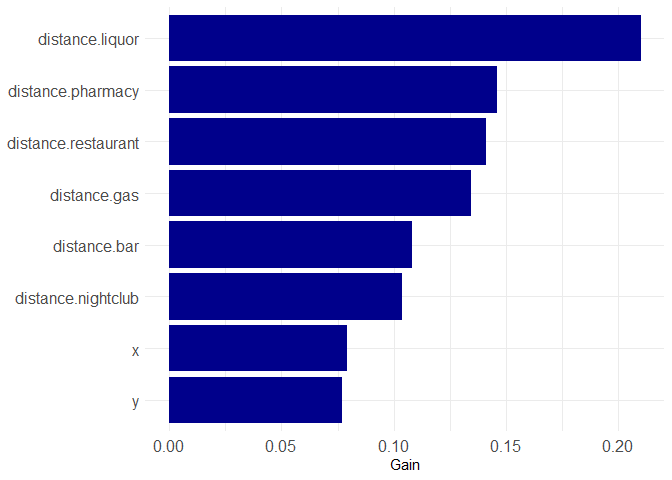
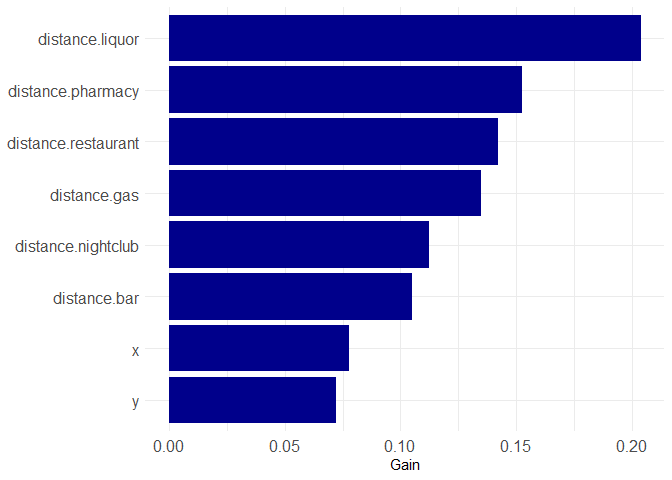
Updates to plot_ale, new vignette

diff --git a/README.md b/README.md
@@ -21,7 +21,7 @@ and Steenbeck
 This package is still in its infancy (as of 2021-06-14). A number of
 features are planned for the future, including:
 
--   Predictive Accuracy Index (PAI) calculation
+-   ~~Predictive Accuracy Index (PAI) calculation~~
 -   GoogleMaps & OpenStreet Maps integration
 -   Grid count and polygon-level predictors
 -   Shapely value decomposition
@@ -70,12 +70,18 @@ models using the parameters listed
 This is a minimum working example using the data provided in the
 `quickGrid` package. `quickGrid` is packaged with an example dataset
 containing robberies in Hartford CT for 2017 though 2019. A number of
-spatial predictors are packed in as well, including the locations of
+spatial predictors are included as well, including the locations of
 bars, night clubs, liquor stores, gas stations, pharmacies, and
-restaurants. For simplicity, these are packaged as a list of `sf`
+restaurants. For simplicity, these are packaged as a list of named `sf`
 objects that can be easily plugged into our model prep function.
 
 ### Setting up your data
+
+Because we are interested in *future* predictions, we should first split
+our data into a [test and train
+dataset](https://developers.google.com/machine-learning/crash-course/training-and-test-sets/splitting-data).
+Here, we will use 2017 - 2018 data for training, and 2019 for evaluating
+our predictions.
 
 ``` r
 library(quickGrid)
@@ -87,16 +93,25 @@ data("hartford_data")
 names(hartford_data)
 #> [1] "hartford"   "robbery"    "bar"        "nightclub"  "liquor"    
 #> [6] "gas"        "pharmacy"   "restaurant"
- 
+
+# Split data into test-train
+robbery_train <- dplyr::filter(hartford_data[[2]], substr(date,1,4) %in% 2017:2018)
+robbery_test <- dplyr::filter(hartford_data[[2]], substr(date,1,4) == 2019)
+```
+
+Now we can train our model on the 2017 and 2018 robberies, using the
+predictor variables and measuring by nearest distance.
+
+``` r
 # Create an object to hold model data
 # using 'prep_data' function
 
-model_data <- prep_data(outcome = hartford_data$robbery,
+model_data <- prep_data(outcome = robbery_train,
                        pred_var = hartford_data[c('bar','nightclub','liquor','gas','pharmacy','restaurant')],
                        region = hartford_data$hartford,
                        gridsize = 200,
                        measure = 'distance')
-#> [1] "Calculating distances..."
+#> Calculating distances...
 ```
 
 This will give us a list of two objects: a model dataframe with the
@@ -159,11 +174,11 @@ gbm_fit <- gbm_fit(
   nrounds = 1000,
   plot_importance = TRUE
 )
-#> [1] "Model type: Poisson"
-#> [1] "Fitting gbm model..."
+#> Model type: Poisson
+#> Fitting gbm model...
 ```
 
-<img src="man/figures/README-unnamed-chunk-3-1.png" width="500px" />
+<img src="man/figures/README-unnamed-chunk-4-1.png" width="500px" />
 
 We can directly access the model predictions as well, by examining the
 model dataframe in the `gbm_fit` output file. In this case `gbm.pred` is
@@ -193,12 +208,12 @@ head(gbm_fit$model_dataframe)
 #> 22        1986.044     2339.894          3511.932            1802.244
 #> 23        1796.853     2174.627          3418.562            1612.213
 #>       gbm.pred                       geometry
-#> 18 0.001900735 POLYGON ((1012120 854990.8,...
-#> 19 0.003929342 POLYGON ((1012320 854990.8,...
-#> 20 0.001821776 POLYGON ((1012520 854990.8,...
-#> 21 0.003597398 POLYGON ((1012720 854990.8,...
-#> 22 0.012617457 POLYGON ((1012920 854990.8,...
-#> 23 0.007686861 POLYGON ((1013120 854990.8,...
+#> 18 0.009015617 POLYGON ((1012120 854990.8,...
+#> 19 0.003779165 POLYGON ((1012320 854990.8,...
+#> 20 0.021006990 POLYGON ((1012520 854990.8,...
+#> 21 0.009862104 POLYGON ((1012720 854990.8,...
+#> 22 0.007123667 POLYGON ((1012920 854990.8,...
+#> 23 0.002528116 POLYGON ((1013120 854990.8,...
 ```
 
 ## Plotting Functions
@@ -223,7 +238,7 @@ function.
 plot_gbm(gbm_fit)
 ```
 
-<img src="man/figures/README-unnamed-chunk-5-1.png" width="500px" />
+<img src="man/figures/README-unnamed-chunk-6-1.png" width="500px" />
 
 In addition, you can also examine the value of one or more of your model
 predictors. If you want to see the grid values for your ‘distance’
@@ -236,7 +251,7 @@ or density values by simply added `feature = 'distance'`.
 plot_gbm(gbm_fit, feature = 'distance')
 ```
 
-<img src="man/figures/README-unnamed-chunk-6-1.png" width="500px" />
+<img src="man/figures/README-unnamed-chunk-7-1.png" width="500px" />
 
 ### plot\_ale
 
@@ -252,7 +267,7 @@ increases.
 plot_ale(gbm_fit, 'distance.liquor')
 ```
 
-<img src="man/figures/README-unnamed-chunk-7-1.png" width="500px" />
+<img src="man/figures/README-unnamed-chunk-8-1.png" width="500px" />
 
 ### Fitting your model with cross-validation
 
@@ -283,3 +298,51 @@ gbm_fit_cv <- gbm_fit(prep_data = model_data,
                      cv.subsample = c(.75,.5),
                      cv.nrounds = c(500,1000))
 ```
+
+## Evaluating Model Performace
+
+There are three possible options for evaluating the [accuracy of
+predictions](https://link.springer.com/article/10.1007/s10940-020-09457-7#Sec14)
+from your model:
+
+1.  The *predictive accuracy index* (PAI), which is the simply the
+    proportion of crimes predicted divided by the number of hotspots
+2.  The *predictive efficiency index* (PEI), which is the ratio of the
+    observed PAI to the (hypothetical) best possible PAI. Values closer
+    to one imply more accurate models.
+3.  The *recapture rate index* (RRI), which measures the relative
+    accuracy of hot spots. This is the ratio of the number of crimes
+    predicted by the model to the number of observed crimes. Values
+    above one imply more crimes are predicted than observed, while
+    values below one imply fewer crimes are predicted than observed.
+
+### `outcome_eval`
+
+The `outcome_eval` function allows the calculation of one or more of the
+above metrics. You can specify one or a list of two or more. The default
+cutoff for a hotspot is the top 1% of regions (`cutoff = 0.01`).
+
+``` r
+# Plot model performance on test data
+# PAI, PEI, RRI
+outcome_eval(model_fit = gbm_fit, 
+             test_data = robbery_test,
+             eval = c("pai","pei","rri"))
+#>   PAI   PEI   RRI 
+#> 18.73  0.31  6.10
+```
+
+### `plot_eval`
+
+There is also the option to plot evaluations across a range of hotspot
+values. This helps to identify the performace of the model conditional
+on different hot spot cutoffs. The `plot_eval` function can plot any of
+the three metrics across any range of values. The default is 0.1% to 1%.
+
+``` r
+plot_eval(model_fit = gbm_fit, 
+             test_data = robbery_test,
+             eval = "pai")
+```
+
+<img src="man/figures/README-unnamed-chunk-11-1.png" width="500px" />
